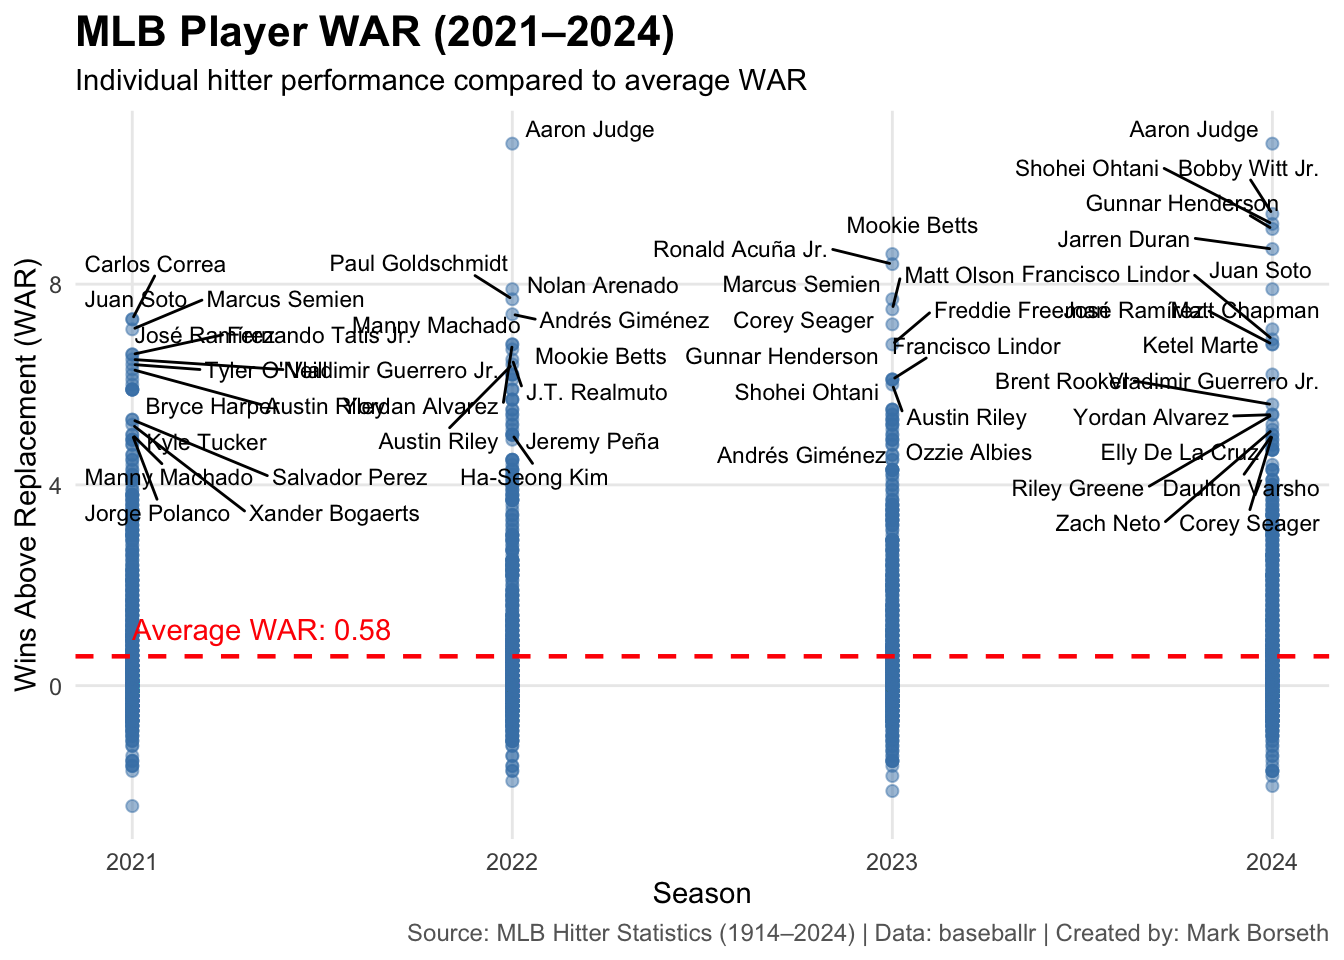
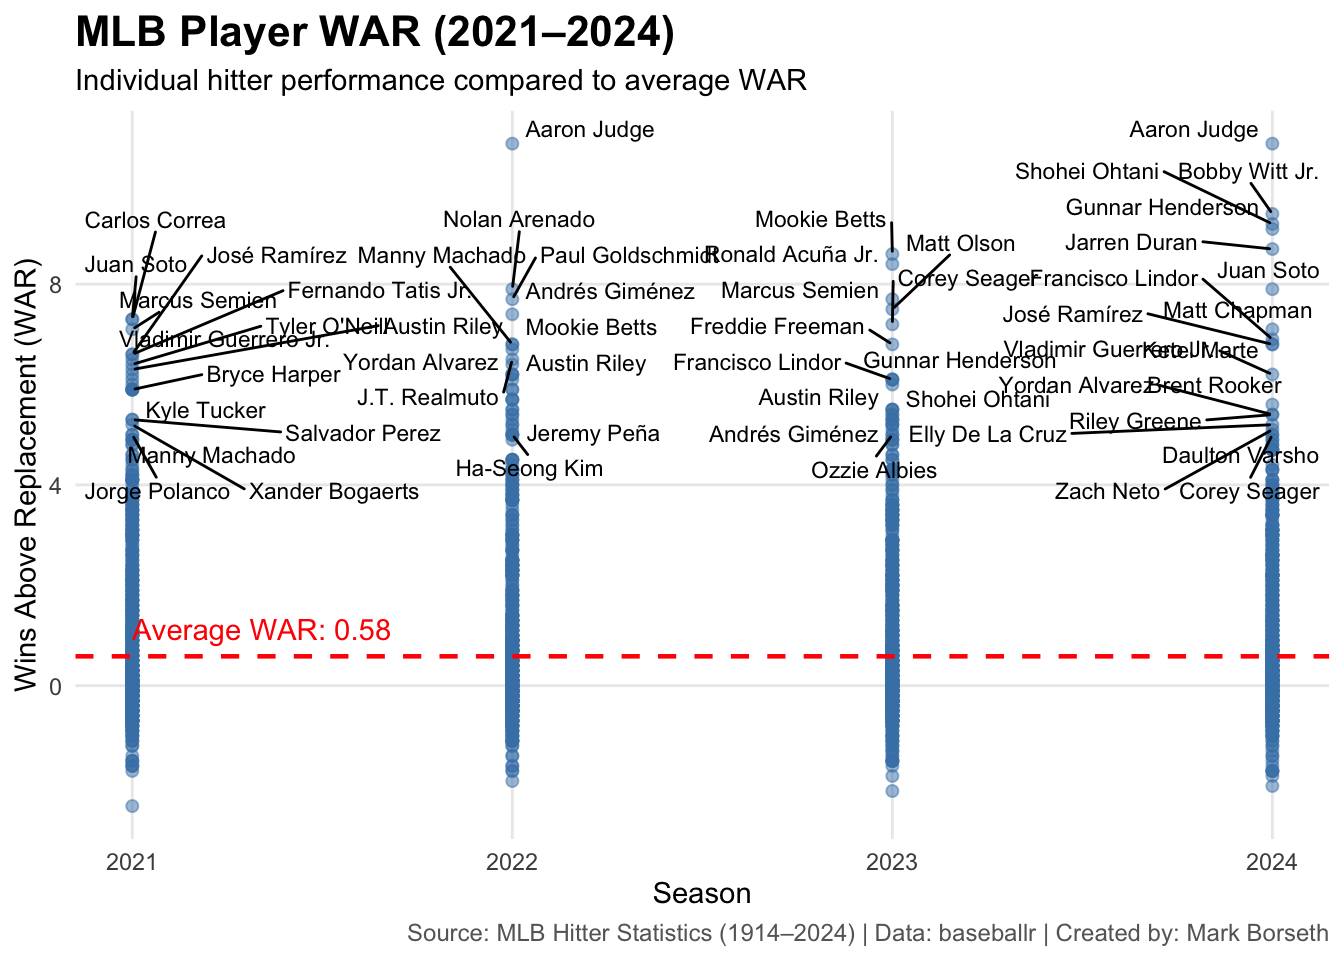
Minor edits

Changed region(s): [[0.0625, 0.1562, 1.0, 0.5625]]

diff --git a/index.html b/index.html
@@ -373,7 +373,7 @@ window.Quarto = {
 
 <div class="quarto-listing quarto-listing-container-default" id="listing-listing">
 <div class="list quarto-listing-default">
-<div class="quarto-post image-right" data-index="0" data-categories="YmFzZWJhbGwlMkNNTEIlMkNzdWNjZXNz" data-listing-date-sort="1793944800000" data-listing-file-modified-sort="1794429321586" data-listing-date-modified-sort="NaN" data-listing-reading-time-sort="7" data-listing-word-count-sort="1291">
+<div class="quarto-post image-right" data-index="0" data-categories="YmFzZWJhbGwlMkNNTEIlMkNzdWNjZXNz" data-listing-date-sort="1793944800000" data-listing-file-modified-sort="1794436512999" data-listing-date-modified-sort="NaN" data-listing-reading-time-sort="7" data-listing-word-count-sort="1291">
 <div class="thumbnail"><a href="./posts/major-league-baseball-success/index.html" class="no-external">
 
 <img loading="lazy" src="./posts/major-league-baseball-success/image.png" class="thumbnail-image">

diff --git a/posts/major-league-baseball-success/index.html b/posts/major-league-baseball-success/index.html
@@ -9,7 +9,7 @@
 <meta name="author" content="Mark Borseth">
 <meta name="dcterms.date" content="2026-11-06">
 
-<title>What defines a team’s success in Major League Baseball – Mark’s Sports Blog</title>
+<title>What defines a team’s success in Major League Baseball – Mark's Sports Blog</title>
 <style>
 /* Default styles provided by pandoc.
 ** See https://pandoc.org/MANUAL.html#variables-for-html for config info.
